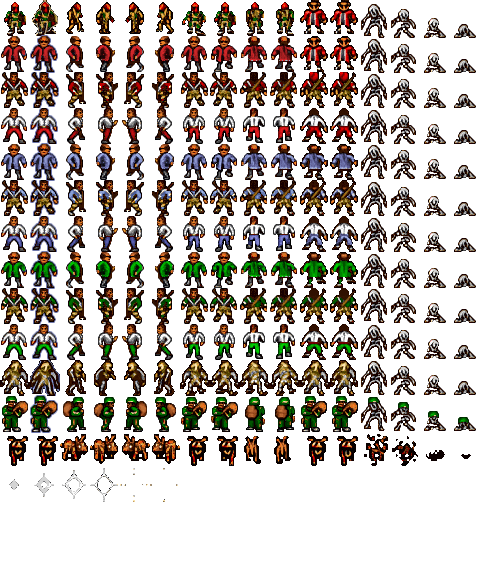
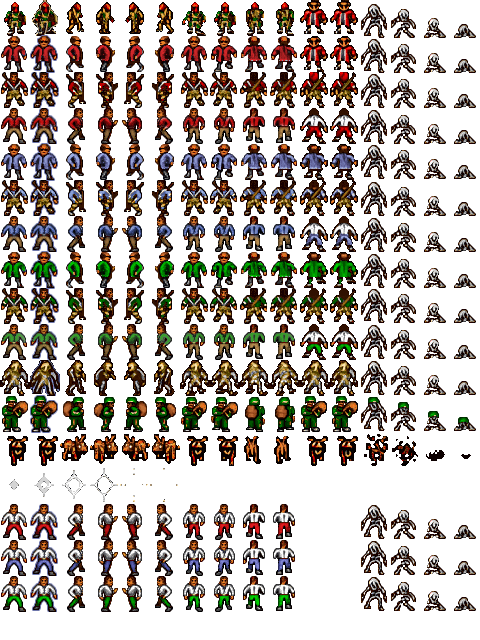
add skin for technician

diff --git a/source/Burntime.Remaster/Logic/Generation/GameCreation.cs b/source/Burntime.Remaster/Logic/Generation/GameCreation.cs
@@ -165,7 +165,8 @@ namespace Burntime.Remaster.Logic.Generation
                 game.World.Players[i].Character = container.Create<PlayerCharacter>();
                 game.World.Players[i].Name = app.ResourceManager.GetString("burn?" + (170 + i).ToString());
                 game.World.Players[i].Character.Position = new Vector2();
-                game.World.Players[i].Character.Body = app.ResourceManager.GetData("syssze.raw?" + gamdat.Characters[i].SpriteId + "-" + (gamdat.Characters[i].SpriteId + 15));
+                int color = Helper.GetColorFromSpriteId(gamdat.Characters[i].SpriteId);
+                game.World.Players[i].Character.Body = Helper.GetCharacterBody(3, color);
                 game.World.Players[i].Character.Path = container.Create<PathFinding.ComplexPath>();
                 game.World.Players[i].Character.Mind = container.Create<AI.PlayerControlledMind>(new object[] { game.World.Players[i].Character });
                 game.World.Players[i].Character.Items.MaxCount = 6;
@@ -206,7 +207,7 @@ namespace Burntime.Remaster.Logic.Generation
             game.World.Players[0].ColorDark = colorsdark[(int)Info.ColorOne];
             game.World.Players[0].IconID = Info.ColorOne == BurntimePlayerColor.Green ? 0 : 1;
             game.World.Players[0].BodyColorSet = Info.ColorOne == BurntimePlayerColor.Green ? 2 : 0;
-            game.World.Players[0].Character.Body = Helper.GetCharacterBody(2, game.World.Players[0].BodyColorSet);
+            game.World.Players[0].Character.Body = Helper.GetCharacterBody(3, game.World.Players[0].BodyColorSet);
             game.World.Players[0].Flag = app.ResourceManager.GetData(Info.ColorOne == BurntimePlayerColor.Green ? "burngfxani@syst.raw?0-3" : "burngfxani@syst.raw?8-11");
 
             if (Info.NameTwo != "" && Info.NameTwo != null)
@@ -226,7 +227,7 @@ namespace Burntime.Remaster.Logic.Generation
             game.World.Players[1].ColorDark = colorsdark[(int)Info.ColorTwo];
             game.World.Players[1].IconID = Info.ColorTwo == BurntimePlayerColor.Green ? 0 : 1;
             game.World.Players[1].BodyColorSet = Info.ColorTwo == BurntimePlayerColor.Green ? 2 : 0;
-            game.World.Players[1].Character.Body = Helper.GetCharacterBody(2, game.World.Players[1].BodyColorSet);
+            game.World.Players[1].Character.Body = Helper.GetCharacterBody(3, game.World.Players[1].BodyColorSet);
             game.World.Players[1].Flag = app.ResourceManager.GetData(Info.ColorTwo == BurntimePlayerColor.Green ? "burngfxani@syst.raw?0-3" : "burngfxani@syst.raw?8-11");
 
             game.World.Players[2].BodyColorSet = -1;
@@ -352,11 +353,27 @@ namespace Burntime.Remaster.Logic.Generation
             }
         }
 
+        static byte FixClass(CharacterType type, byte spriteId)
+        {
+            int bodyId = Helper.GetSetBodyId(type);
+            int color = Helper.GetColorFromSpriteId(spriteId);
+            if (color < 0 || bodyId < 0)
+                return spriteId;
+
+            int body = Helper.GetBodyId(bodyId, color);
+            if (body < 0)
+                return spriteId;
+
+            return (byte)body;
+        }
+
         void LoadNPCs(ClassicGame game, Burntime.Data.BurnGfx.Save.SaveGame gamdat)
         {
             foreach (Burntime.Data.BurnGfx.Save.Character ch in gamdat.Characters)
             {
                 CharacterInfo chr = ch.Info;
+
+                chr.SpriteId = FixClass(ch.Type, chr.SpriteId);
 
                 if (chr.LocationId > 0 && chr.LocationId <= game.World.Locations.Count)
                 {

diff --git a/source/Burntime.Remaster/Helper.cs b/source/Burntime.Remaster/Helper.cs
@@ -12,22 +12,45 @@ namespace Burntime.Remaster
     {
         static public DataID<ISprite> GetCharacterBody(int body, int colorSet)
         {
-            int sprite = (body + 1) * 16 + 48 * colorSet;
+            int sprite = GetBodyId(body, colorSet);
+            if (sprite < 0)
+                sprite = 0;
             return BurntimeClassic.Instance.ResourceManager.GetData("burngfxani@syssze.raw?" + sprite + "-" + (sprite + 15));
         }
 
-        static public int GetSetBodyId(Burntime.Data.BurnGfx.Save.CharacterType characterType)
+        static public int GetBodyId(int body, int color)
         {
-            switch (characterType)
+            if (body == 3)
+                return (14 + color) * 16;
+            else if (body >= 0 && body < 3)
+                return (body + 1) * 16 + 48 * color;
+
+            return -1;
+        }
+
+        static public int GetSetBodyId(Data.BurnGfx.Save.CharacterType characterType)
+        {
+            return characterType switch
             {
-                case Burntime.Data.BurnGfx.Save.CharacterType.Mercenary:
-                    return 1;
-                case Burntime.Data.BurnGfx.Save.CharacterType.Technician:
-                case Burntime.Data.BurnGfx.Save.CharacterType.Doctor:
-                    return 0;
-                default:
-                    return 2;
-            }
+                Data.BurnGfx.Save.CharacterType.Mercenary => 1,
+                Data.BurnGfx.Save.CharacterType.Doctor => 0,
+                Data.BurnGfx.Save.CharacterType.Technician => 2,
+                Data.BurnGfx.Save.CharacterType.Boss => 3,
+                _ => -1,
+            };
+        }
+
+        static public int GetColorFromSpriteId(int spriteId)
+        {
+            spriteId /= 16;
+
+            if (spriteId >= 14)
+                return spriteId - 14;
+
+            if (spriteId >= 1 || spriteId <= 9)
+                return spriteId / 3;
+
+            return -1;
         }
     }
 }

diff --git a/source/Burntime.Remaster/Application.cs b/source/Burntime.Remaster/Application.cs
@@ -140,6 +140,11 @@ namespace Burntime.Remaster
                     useHighResFont = true;
                 }
             }
+            else
+            {
+                if (FileSystem.ExistsFile("newgfx.txt"))
+                    ResourceManager.SetResourceReplacement("newgfx.txt");
+            }
 #warning TODO Santa for NewGfx (only)
             //else if (DateTime.Now.Month == 12 && 
             //    (DateTime.Now.Day >= 24 && DateTime.Now.Day <= 31 || DateTime.Now.Day == 6))
@@ -333,7 +338,10 @@ namespace Burntime.Remaster
             else
             {
                 FileSystem.RemovePackage("newgfx");
-                ResourceManager.SetResourceReplacement(null);
+                if (FileSystem.ExistsFile("newgfx.txt"))
+                    ResourceManager.SetResourceReplacement("newgfx.txt");
+                else
+                    ResourceManager.SetResourceReplacement(null);
             }
 
             Engine.ReloadGraphics();
